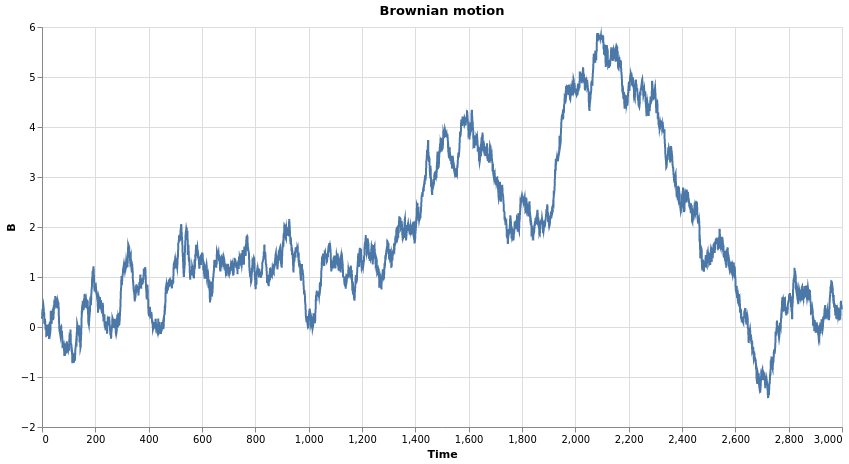
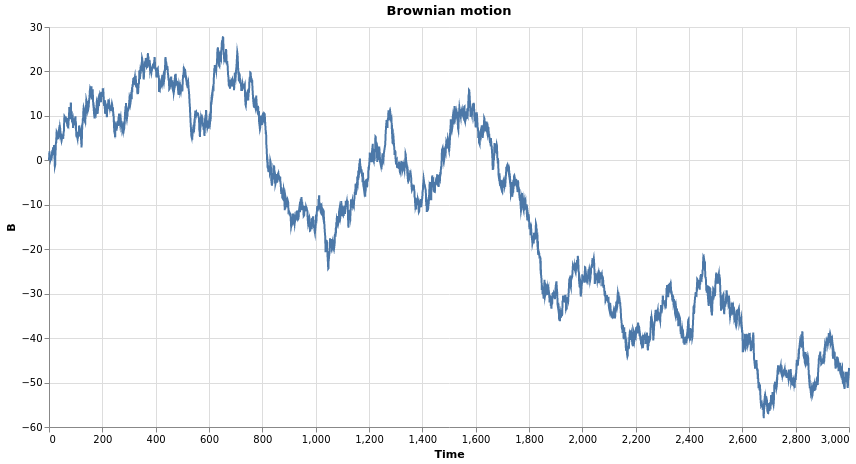
README.md new png image.

diff --git a/notebook.py b/notebook.py
@@ -8,7 +8,7 @@ from brownian_motion import BM_increment, BM_interpolation, to_df
 
 # Brownian path with independent increments
 
-bm_list = BM_increment(dt=0.1, N=3000, seed=102)
+bm_list = BM_increment(dt=1, N=3000, seed=10)
 df_bm = to_df(bm_list)
 
 chart_bm = (
